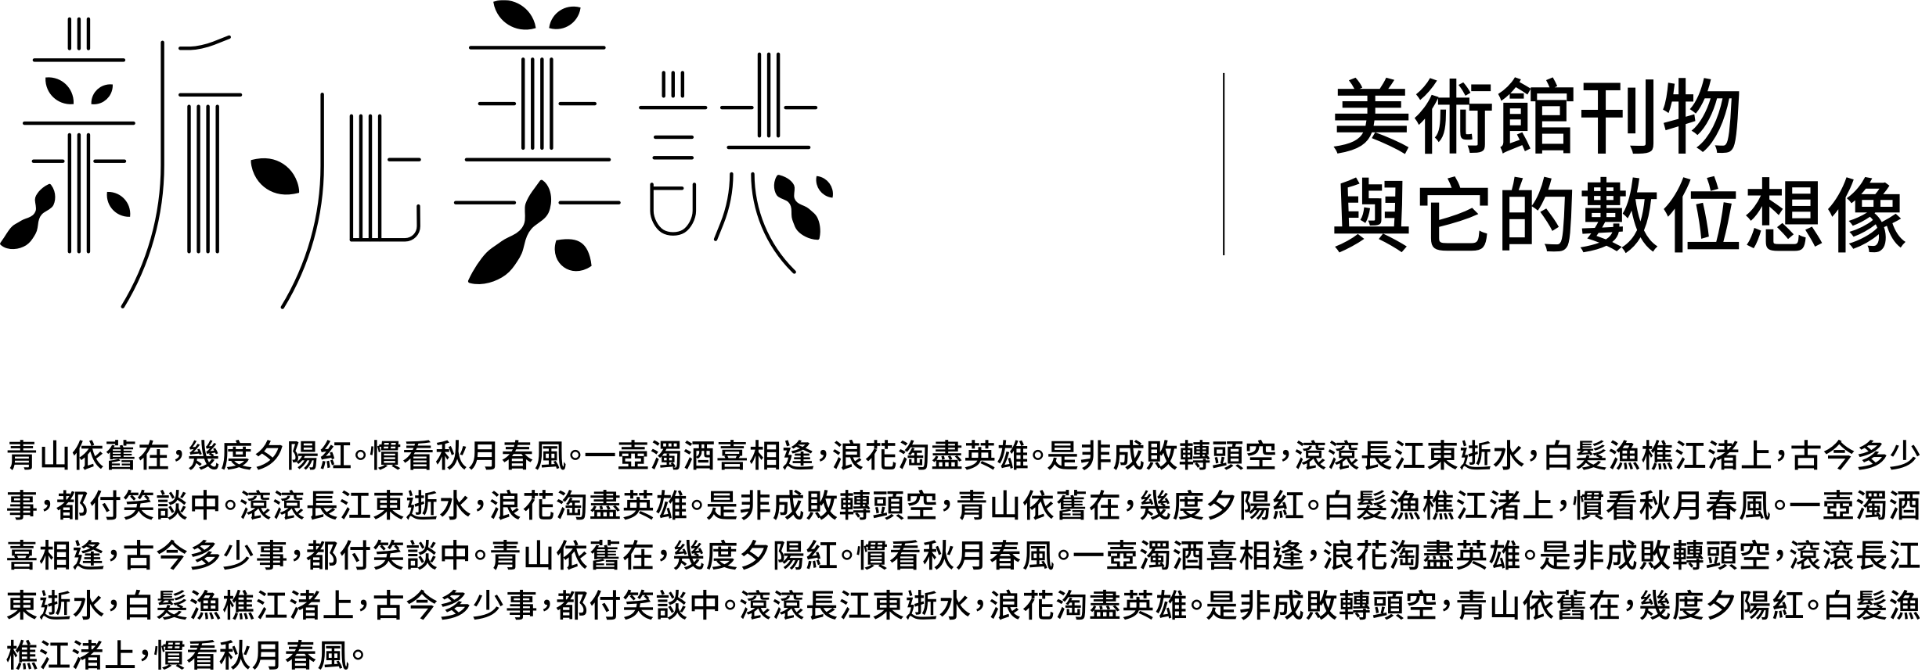
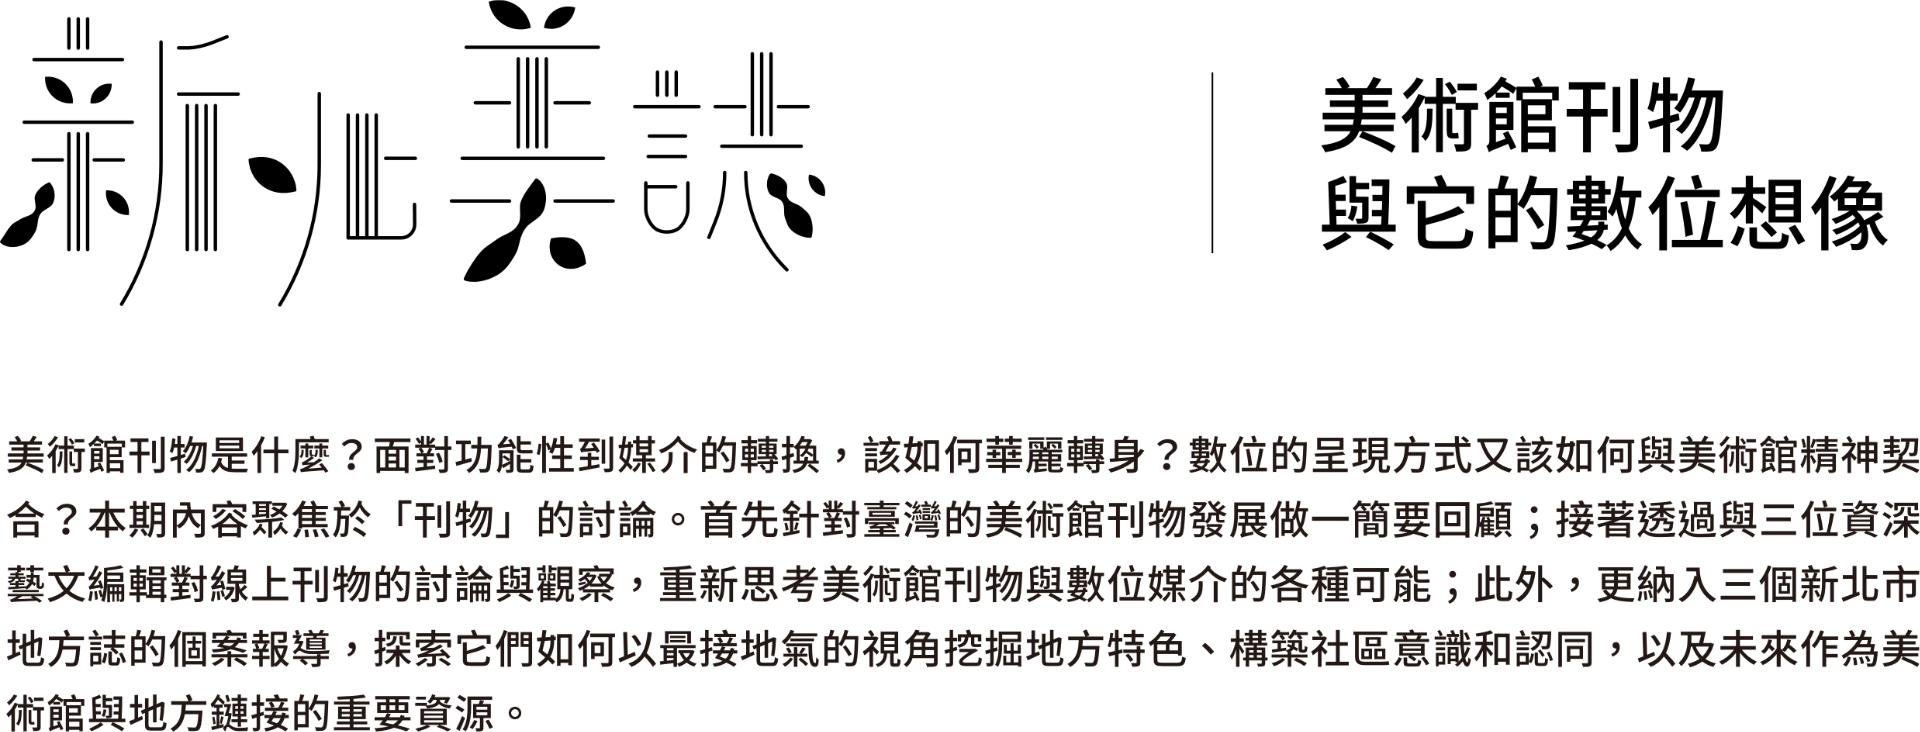
add loading page
*update info text (fixed)
*add loading page (fixed)
*link back to ntmfa website (fixed)
*link in iframe add target=“_blank” (fixed)
*share website link to fb (fixed)

diff --git a/docs/assets/articles/B2.html b/docs/assets/articles/B2.html
@@ -20,9 +20,11 @@
 			</div>
 		</div>
 		<p class="S_自訂-V_Normal"><span class="字元樣式1">江：</span>我現在會被吸引的線上刊物是簡單、分類很明確的，例如<a
-				href="https://www.pen-online.jp/"><span class="超連結">日本Pen雜誌的網站</span></a>，一格一格的很簡單；相較於我也很喜歡的<a
-				href="https://magazineworld.jp/"><span class="超連結">Magazine House</span></a>，後者就比較是傳統翻頁的感覺。</p>
-		<p class="S_自訂-V_Normal"><span class="字元樣式1">陳：</span>有個網站叫做<a href="http://www.vdrome.org/"><span
+				href="https://www.pen-online.jp/" target="_blank"><span
+					class="超連結">日本Pen雜誌的網站</span></a>，一格一格的很簡單；相較於我也很喜歡的<a href="https://magazineworld.jp/"
+				target="_blank"><span class="超連結">Magazine House</span></a>，後者就比較是傳統翻頁的感覺。</p>
+		<p class="S_自訂-V_Normal"><span class="字元樣式1">陳：</span>有個網站叫做<a href="http://www.vdrome.org/"
+				target="_blank"><span
 					class="超連結">Vdrome</span></a>，有點線上策展的概念，內容是有限時的，例如錄像作品會過期，但是QA訪談還可以看到。這可能比較像是線上展覽，我自己滿喜歡的。</p>
 		<p class="S_自訂-V_Normal"><span
 				class="字元樣式1">江：</span>這裡面有策展概念，不過線上刊物如果是一個事件，其實也就是在策展，這種形式的機動性甚至比雜誌更強。因為網路有太多東西分散注意力，所以要讓人家想到你的存在真的是很難。
@@ -30,7 +32,7 @@
 		<p class="S_自訂-V_Normal"><span
 				class="字元樣式1">王：</span>所以分眾才是最重要的事情，目標客群如果不清楚，就會糊掉沒救了。因為大家注意力太有限，所以只要做書就要先想是要跟誰講話。</p>
 		<p class="S_自訂-V_Normal">我比較接觸的是像依秋說的那種，年輕新生代藝術家被加上一個年輕策展人，然後被撐起來。英國皇家學院有個策展學城，做了一個<a
-				href="https://www.afterall.org/"><span
+				href="https://www.afterall.org/" target="_blank"><span
 					class="超連結">Afterall</span></a>，看起來像期刊，但效果很好，有文章針對新藝術家，也出系列展覽書籍，不過這種就真的是當代藝術的操作，不是地方性美術館，但地方美術館也會有手稿、塗鴉等檔案式的很多，可以討論作品的發想、源頭等等。
 		</p>
 		<p class="S_自訂-V_Normal"><span

diff --git a/docs/assets/articles/C3.html b/docs/assets/articles/C3.html
@@ -45,18 +45,18 @@
 		</p>
 		<p class="S_自訂-V_line">　　　　　　　</p>
 		<p class="S_自訂-V_段落樣式2">淡淡</p>
-		<p class="S_自訂-V_B4"><a href="https://tamsui-field.org/category/%E6%B7%A1%E6%B7%A1%E5%AD%A3%E5%88%8A/"><span
-					class="超連結">官網</span></a>｜<a href="https://www.facebook.com/TamsuiField"><span
-					class="超連結">FB</span></a></p>
+		<p class="S_自訂-V_B4"><a href="https://tamsui-field.org/category/%E6%B7%A1%E6%B7%A1%E5%AD%A3%E5%88%8A/"
+				target="_blank"><span class="超連結">官網</span></a>｜<a href="https://www.facebook.com/TamsuiField"
+				target="_blank"><span class="超連結">FB</span></a></p>
 		<p class="S_自訂-V_line">　　　　　　　</p>
 		<p class="S_自訂-V_段落樣式2">緬甸街雜誌</p>
-		<p class="S_自訂-V_B4"><a href="https://www.mp-taipei.com/"><span class="超連結">官網</span></a>｜<a
-				href="https://www.facebook.com/MingalarparTaipei"><span class="超連結">FB</span></a>｜<a
-				href="https://www.instagram.com/mptaipei/"><span class="超連結">IG</span></a>｜<a
-				href="http://apple.co/3eQBs8v"><span class="超連結">Apple podcast</span></a>｜<a
-				href="http://spoti.fi/34a7I1d"><span class="超連結">Spotify</span></a>｜<a
-				href="http://www.soundcloud.com/mptaipei"><span class="超連結">Soundcloud</span></a>｜<a
-				href="http://bit.ly/3bAFak2"><span class="超連結">Google Play</span></a></p>
+		<p class="S_自訂-V_B4"><a href="https://www.mp-taipei.com/" target="_blank"><span class="超連結">官網</span></a>｜<a
+				href="https://www.facebook.com/MingalarparTaipei" target="_blank"><span class="超連結">FB</span></a>｜<a
+				href="https://www.instagram.com/mptaipei/" target="_blank"><span class="超連結">IG</span></a>｜<a
+				href="http://apple.co/3eQBs8v" target="_blank"><span class="超連結">Apple podcast</span></a>｜<a
+				href="http://spoti.fi/34a7I1d" target="_blank"><span class="超連結">Spotify</span></a>｜<a
+				href="http://www.soundcloud.com/mptaipei" target="_blank"><span class="超連結">Soundcloud</span></a>｜<a
+				href="http://bit.ly/3bAFak2" target="_blank"><span class="超連結">Google Play</span></a></p>
 		<p class="S_自訂-V_line">　　　　　　　</p>
 		<p class="S_自訂-V_段落樣式2">新莊騷</p>
 		<p class="S_自訂-V_B4"><a href="https://www.facebook.com/XinZhuangSao/"><span class="超連結">FB</span></a></p>

diff --git a/docs/index.html b/docs/index.html
@@ -18,6 +18,9 @@
 </head>
 
 <body>
+    <div id="loaderC">
+        <div id="loader" class="center"></div>
+    </div>
 
     <img id="site_logo" src="assets/imgs/site_logo.png" alt="'site logo">
 
@@ -30,7 +33,9 @@
             <img class="bt" id="bt2" src="assets/imgs/bt2.png" alt="button share">
         </div>
         <div>
-            <img class="bt" id="bt3" src="assets/imgs/bt3.png" alt="button link">
+            <a href="https://www.ntmoa.tw/online-magazines/" target="_blank">
+                <img class="bt" id="bt3" src="assets/imgs/bt3.png" alt="button link">
+            </a>
         </div>
     </div>
 
@@ -75,13 +80,13 @@
                 <img id="download_pdf" src="assets/imgs/download_pdf.png">
             </div>
             <div onclick="share_img()">
-                <img id="share_img" src="assets/imgs/share_img.png">
+                <a href="https://www.facebook.com/sharer/sharer.php?u=https://www.ntmoa.tw/online-magazines/"
+                    target="_blank">
+                    <img id="share_img" src="assets/imgs/share_img.png">
+                </a>
             </div>
         </div>
     </div>
-
-    <!--<script src="main.js"></script>-->
-    <!-- <script src="mobile.js"></script> -->
     <script src="pdf.js"></script>
     <script src="transition.js"></script>
     <script>
@@ -106,6 +111,21 @@
         }
 
         checkDevice();
+    </script>
+    <script>
+        document.onreadystatechange = function () {
+            if (document.readyState !== "complete") {
+                document.querySelector(
+                    "body").style.visibility = "hidden";
+                document.querySelector(
+                    "#loaderC").style.visibility = "visible";
+            } else {
+                document.querySelector(
+                    "#loaderC").style.display = "none";
+                document.querySelector(
+                    "body").style.visibility = "visible";
+            }
+        }; 
     </script>
 </body>
 

diff --git a/docs/assets/articles/A3.html b/docs/assets/articles/A3.html
@@ -14,7 +14,7 @@
 		<p class="S_自訂-V_小標">藝術刊物的數位之途</p>
 		<p class="S_自訂-V_Normal">
 			2010年前後，數位閱讀習慣的普及加速了紙媒雜誌的萎縮（2010年前後智慧型手機問世，2012年時已有半數的北美消費者使用智慧型手機），各類紙本雜誌發行量在2007年左右便有明顯驟減。2012至2017年，出版界老牌報紙、雜誌停刊或全面轉為付費線上閱讀的消息不斷，其中尤以原本閱讀就偏小眾、製作成本相對昂貴的藝術類雜誌首當其衝，即便是前述獨具特色的《PARKETT》最終也難以抵擋當代消費習慣的變化。隨第99期而出的停刊預告與感謝信中，《PARKETT》指出這項決定來自「數位時代所帶來閱讀行為的根本改變」，紙本《PARKETT》於2017年夏季推出第100/101期後正式停刊，過往刊物全部內容改為<a
-				href="https://www.parkettart.com/"><span class="超連結">線上圖書室</span></a>形式供讀者閱讀。</p>
+				href="https://www.parkettart.com/" target="_blank"><span class="超連結">線上圖書室</span></a>形式供讀者閱讀。</p>
 		<p class="S_自訂-V_Normal">
 			這波數位閱讀的消費影響重災區包括中國，原因為2006年前後中國當代藝術交易在市場炒作中膨脹，使中國國內藝術雜誌大量增長，當年度便有約40多種商業藝術類型的紙媒創刊發行，其中最具代表性包括《hi藝術》。這波紙媒榮景很快就受到2008年金融海嘯、奢侈稅、市場泡沫化與書籍消費方式轉換等影響，2012年前後小型媒體開始不敵虧損而退場，《外灘畫報》及中國國內發行量最大的藝術雜誌之一《芭莎藝術》也在2015到2016年間陸續停刊。
 		</p>

diff --git a/docs/styles.css b/docs/styles.css
@@ -7,7 +7,40 @@ body {
     padding: 0;
     overflow: hidden;
     background: #464646 url("assets/imgs/bg.jpg") no-repeat fixed center; 
+    /*transition: opacity 5s ease-in-out;*/
 }
+#loaderC{
+    position: absolute;
+    top: 0;
+    width: 100%;
+    height: 100vh;
+    background: #464646 no-repeat fixed center; 
+    transition: opacity 5s ease-in-out;
+    z-index: 9999;
+}
+#loader { 
+            border: 12px solid #f3f3f3; 
+            border-radius: 50%; 
+            border-top: 12px solid #444444; 
+            width: 70px; 
+            height: 70px; 
+            animation: spin 1s linear infinite; 
+        } 
+          
+        @keyframes spin { 
+            100% { 
+                transform: rotate(360deg); 
+            } 
+        } 
+          
+        .center { 
+            position: absolute; 
+            top: 0; 
+            bottom: 0; 
+            left: 0; 
+            right: 0; 
+            margin: auto; 
+        } 
 #site_logo{
     width:88px;
     padding: 25px;
@@ -394,11 +427,11 @@ body {
     }
     #imgA1,#imgB1,#imgC2{
         position: absolute;
-        width: 180px;
+        width: 160px;
     }
     #imgA2,#imgB3,#imgC3{
         position: absolute;
-        width: 130px;
+        width: 110px;
     }
     /* #A1_iframe_scale,#A2_iframe_scale,#A3_iframe_scale,#B1_iframe_scale,#B2_iframe_scale,#B3_iframe_scale,#C1_iframe_scale,#C2_iframe_scale,#C3_iframe_scale{
     height:20px;

diff --git a/docs/assets/articles/B3.html b/docs/assets/articles/B3.html
@@ -13,7 +13,7 @@
 	<div id="_idContainer000" class="_idGenObjectStyleOverride-1">
 		<p class="S_自訂-V_小標">後疫情的藝術生存之道</p>
 		<p class="S_自訂-V_Normal"><span class="字元樣式1">陳：</span>在疫情期間，耶魯的攝影研究所老師格雷戈里·克魯森(Gregory
-			Crewdson)，他也是知名藝術家，他用Zoom<a href="https://www.youtube.com/watch?v=TTIlncBM_Yg"><span
+			Crewdson)，他也是知名藝術家，他用Zoom<a href="https://www.youtube.com/watch?v=TTIlncBM_Yg" target="_blank"><span
 					class="超連結">授課</span></a>並邀了凱特．布蘭琪(Kate Blanche)、蒂達．史雲頓(Tilda
 			Swinton)來課堂上，分別問她們20個問題，結束後還跟幾百個學生進行問答。這件事很有趣，那些大明星或知名的藝術家跟我們一樣，也只能在家裡，對著電腦前的鏡頭，感覺大家變平了。而凱特．布蘭琪即使是在電腦前，也讓人感到演員的光芒；Tilda也是看起來就是很平常，但充滿了靈光。這樣的體驗我是很珍惜的，因為也許沒有疫情就不會發生這件事。
 		</p>
